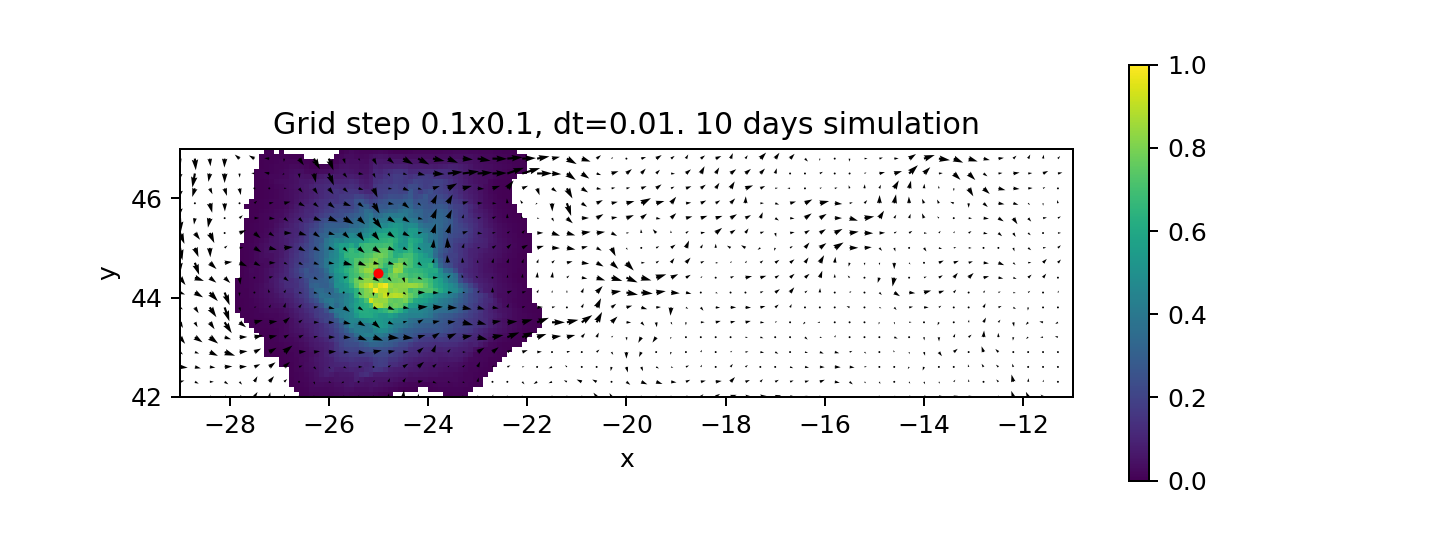
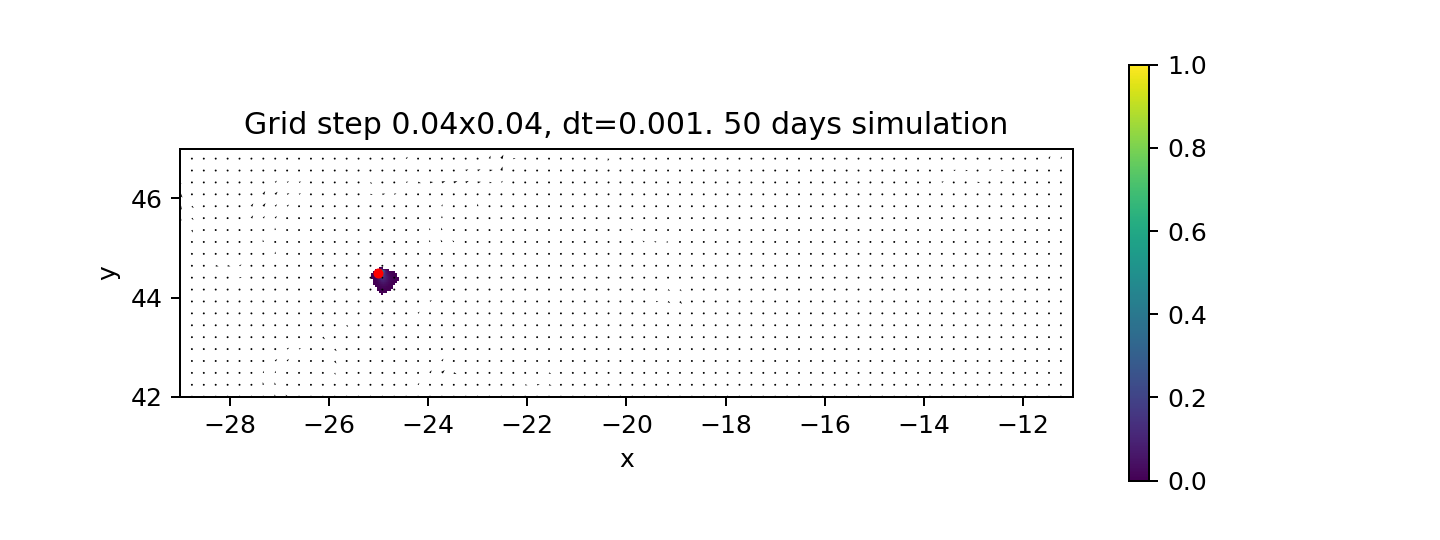
Make vectorfield worse

diff --git a/scripts/PDE_model/library/structures.py b/scripts/PDE_model/library/structures.py
@@ -10,8 +10,8 @@ class Grid:
         self.y_carthesian_range = y_carthesian_range
         self.x_stepsize = x_stepsize
         self.y_stepsize = y_stepsize
-        self.x_s = np.arange(min(x_carthesian_range), max(x_carthesian_range), self.x_stepsize) # ? 
-        self.y_s = np.arange(min(y_carthesian_range), max(y_carthesian_range), self.y_stepsize) #
+        self.x_s = np.arange(min(x_carthesian_range), max(x_carthesian_range), self.x_stepsize) # ? max(x_carthesian_range), int(round((max(x_carthesian_range) - min(x_carthesian_range)) / self.x_stepsize)) + 1
+        self.y_s = np.arange(min(y_carthesian_range), max(y_carthesian_range), self.y_stepsize) #   max(y_carthesian_range), int(round((max(y_carthesian_range) - min(y_carthesian_range)) / self.y_stepsize)) + 1
         self.x_num = len(self.x_s)
         self.y_num = len(self.y_s)
         
@@ -49,10 +49,10 @@ class Grid:
         self.advectionConstants = np.array([A[1],-A[0]])
     
     def setValue(self, pos, value):
-        self.u_old[pos] = value
+        self.u_old[pos] = value/(self.x_stepsize*self.y_stepsize)
     
     def addValue(self, pos, value):
-        self.u_old[pos] += value
+        self.u_old[pos] += value/(self.x_stepsize*self.y_stepsize)
     
     def setTimestep(self, timestep):
         self.dt = timestep
@@ -122,15 +122,16 @@ class Grid:
         for i in range(self.x_num):
             for j in range(self.y_num):
                 pos_x, pos_y = self.itc(j, i)
-                idx_data_lon = np.searchsorted(self.lon_vals, pos_x)
-                idx_data_lat = np.searchsorted(self.lat_vals, pos_y)
+                idx_data_lon = np.clip(np.searchsorted(self.lon_vals, pos_x), 0, len(self.lon_vals)-1)
+                idx_data_lat = np.clip(np.searchsorted(self.lat_vals, pos_y), 0, len(self.lat_vals)-1)
                 
                 x_val = u_data[idx_data_lat, idx_data_lon]
                 y_val = v_data[idx_data_lat, idx_data_lon]
                 
-                #Convert from mm/s to m/day
-                self.vectorfield_x[j, i] = x_val * 86.4 / 1000
-                self.vectorfield_y[j, i] = y_val * 86.4 / 1000
+                # Convert from mm/s to m/day
+                # These constants are debatable, and so they will be!
+                self.vectorfield_x[j, i] = x_val * (86.4) / (100_000*self.x_stepsize)
+                self.vectorfield_y[j, i] = y_val * (86.4) / (100_000*self.y_stepsize)
 
         
         return self.vectorfield_x, self.vectorfield_y
@@ -196,7 +197,7 @@ class Grid:
         self.u_old = self.u_new
         
     def getMatrix(self):
-        return self.u_old
+        return self.u_old * self.x_stepsize * self.y_stepsize
     
     def itc(self, j, i):
         '''Index (j,i) to coordinate (x,y)'''
@@ -213,23 +214,23 @@ class Grid:
         return (j, i)
         
     def getTotalValue(self):
-        return np.sum(self.u_old)
+        return np.sum(self.u_old) * self.x_stepsize * self.y_stepsize
     
     def getOverflowBottom(self):
-        return self.overflow_bottom
+        return self.overflow_bottom * self.x_stepsize * self.y_stepsize
     
     def getOverflowRatio(self):
         '''Ratio between bottom overflow and total overflow'''
         try:
-            return self.overflow_bottom / (self.overflow_bottom+self.overflow_top)
+            return self.overflow_bottom / (self.overflow_bottom+self.overflow_top) * self.x_stepsize * self.y_stepsize
         except:
             return None
         
     def getOverflowTop(self):
-        return self.overflow_top
+        return self.overflow_top * self.x_stepsize * self.y_stepsize
     
     def getOverflow(self):
-        return self.overflow_bottom + self.overflow_top
+        return (self.overflow_bottom + self.overflow_top) * self.x_stepsize * self.y_stepsize
         
     def ic(self, type, v):
         if type=='gauss':

diff --git a/scripts/PDE_model/FVMadvancedPlot.py b/scripts/PDE_model/FVMadvancedPlot.py
@@ -15,21 +15,21 @@ from matplotlib.colors import Normalize
 #
 
 ### Related to constants
-diffusionMatrix = [[0.00025, 0], [0, 0.00025]] #Is converted to NParray later.
+diffusionMatrix = [[0.00025, 0], [0, 0.00025]] #Converted to NParray later. Diffusion behaviour
 advectionVector = [0.1, 0] #Converted to NP later. Constant behaviour.
-initialCondition = 'gauss' #'delta' or 'gauss'. See grid.ic for details, or do it yourself using grid.addValue and grid.cti
+initialCondition = 'inflow' #'delta' or 'gauss'. See grid.ic for details, or manage manually using grid.addValue and grid.cti (coord. to index)
 
 ### Related to integration domain
 x_range = [-29, -11]
 y_range = [42, 47]
-dx = 0.1 # dx =/= dy is supported. Some stepsizes will cause an idx-oo-bounds. add small perturbation to stepsize or choose differently. 
-dy = 0.1 # Ex: 0.01 breaks, 0.012 doesn't.
-dt = 0.01 # timestep between dataset swapping. scale: day.
+dx = 0.04 # dx =/= dy is supported. Some stepsizes will cause an idx-oo-bounds. add small perturbation to stepsize or choose differently. 
+dy = 0.04 # Ex: 0.01 breaks, 0.012 doesn't.
+dt = 0.001 # timestep between dataset swapping. scale: day.
 
 ### Related to dataset time and VF
 startTime = 131496      #Hours since 01-01-2000. This repr. 01-01-2015
 timeResolution = 24     #Hours between dataset snapshots. Intermediate timesteps use identical set.
-simLengthDays = 10
+simLengthDays = 50
 endTime = startTime + timeResolution * simLengthDays
 
 ### Dataset url
@@ -45,7 +45,7 @@ grid.setTimestep(dt)
 grid.precalculateDiffusiveOperator(type="Neumann", direction="Horizontal")
 grid.precalculateDiffusiveOperator(type="Neumann", direction="Vertical")
 grid.precalculateAdvectiveOperator()
-grid.ic(initialCondition, 1)
+grid.ic(initialCondition, 400)
 
 #
 ### End simulation related stuff
@@ -56,6 +56,7 @@ grid.ic(initialCondition, 1)
 #
 
 dataset = netCDF4.Dataset(url)
+e = 1e-3 #Small offset for mask boundaries
 
 # Original arrays
 time_array = dataset.variables['time'][:]
@@ -69,18 +70,17 @@ times = time_array[time_idx]
 startTimeIndex = list(time_array).index(startTime)
 
 # Longitude indices and values
-lon_mask = (lon_array >= min(x_range)) & (lon_array <= max(x_range))
+lon_mask = (lon_array >= min(x_range)-e) & (lon_array <= max(x_range)+e)
 lon_idx = np.where(lon_mask)[0]
 longitudes = lon_array[lon_idx]
 
 # Latitude indices and values
-lat_mask = (lat_array >= min(y_range)) & (lat_array <= max(y_range))
+lat_mask = (lat_array >= min(y_range)-e) & (lat_array <= max(y_range)+e)
 lat_idx = np.where(lat_mask)[0]
 latitudes = lat_array[lat_idx]
 grid.setLonLatVals(dataset, lon_idx, lat_idx)
 
 N_steps_per_day = int(1/dt)
-start_time = time()
 
 #
 ### End vectorfield data
@@ -90,8 +90,10 @@ start_time = time()
 ### Start main loop
 #
 
+start_time = time()
 for i in range(simLengthDays):
-    #grid.addValue(grid.cti(-25, 44.5), 5)
+    if initialCondition == 'inflow':
+        grid.addValue(grid.cti(-25, 44.5), 5)
     
     simTime = startTime + i*timeResolution #Hours since 2000
     simTimeIndex = np.searchsorted(times, simTime) + startTimeIndex #To access dataset
@@ -121,7 +123,7 @@ plt.imshow(masked_matrix, origin='lower', extent=[-29, -11, 42, 47],
            aspect=1, vmin=0.01, vmax=np.max(matrix), cmap=cmap)
 
 lon_grid, lat_grid = np.meshgrid(grid.x_s, grid.y_s)
-plt.quiver(lon_grid[::3, ::3], lat_grid[::3, ::3], vf_x[::3, ::3], vf_y[::3, ::3], scale=4, color='k')
+plt.quiver(lon_grid[::6, ::6], lat_grid[::6, ::6], vf_x[::6, ::6], vf_y[::6, ::6], scale=4, color='k')
 plt.plot((-25), (44.5), 'r.')
 plt.colorbar()
 plt.xlabel('x')

diff --git a/scripts/PDE_model/process.md b/scripts/PDE_model/process.md
@@ -92,6 +92,11 @@ I am not anymore interpolating with this, but because my integrating a random VF
 I think the vectorfield is working correctly. I want to verify by plotting the VF using plt.quiver. So I am going to do that.
 Judging by the PLT quiver, I can now surely say that the VF is working correctly. The changing vectorfield is of course harder to plot, so for that I just use the most recent vector field we encountered.
 
+# 17 may
+Did some writing work in Overleaf, code was mostly idle today.
+
+# 18 May
+Today I want to fix two issues I know exist. One is the scale-relevance on the density. Changing the space-step (also a problem which I have now fixed) to a larger or smaller step changed the solution more than is justifyable with resolution arguments. Therefor, there must be an influence of space-step on solution which is obviously wrong. I think this happens because I have rescaled the flow field units to meter per day, but I want to try to set this to be x_stepsize degrees / t_stepsize days 
 
 
 # List of attendees/invites for the final presentation: (who still need to know a location)
